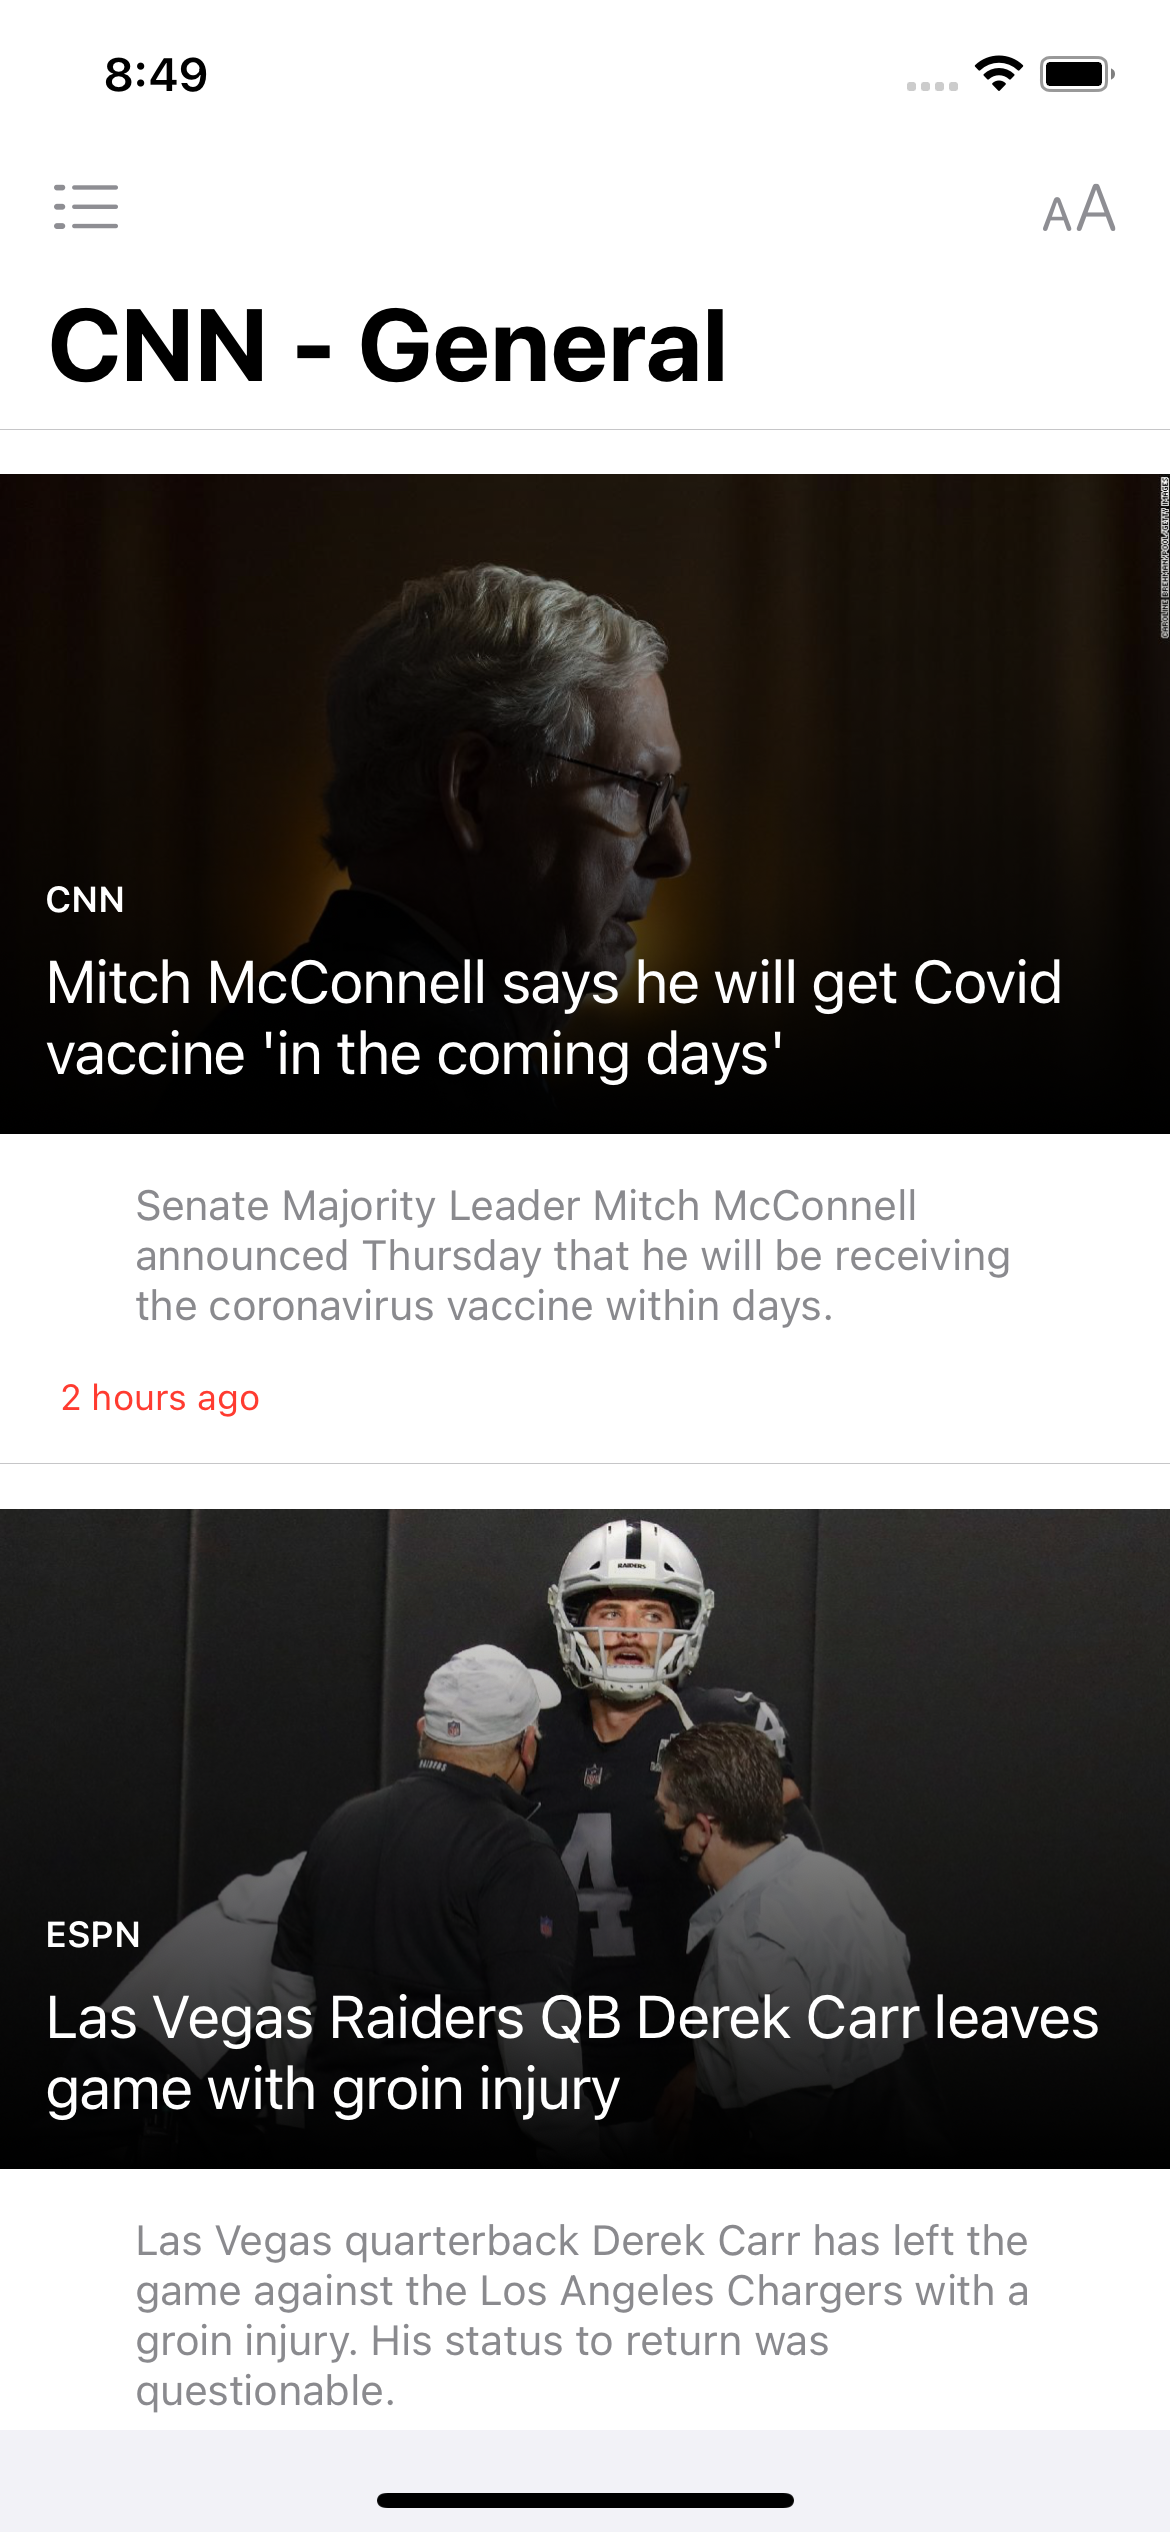
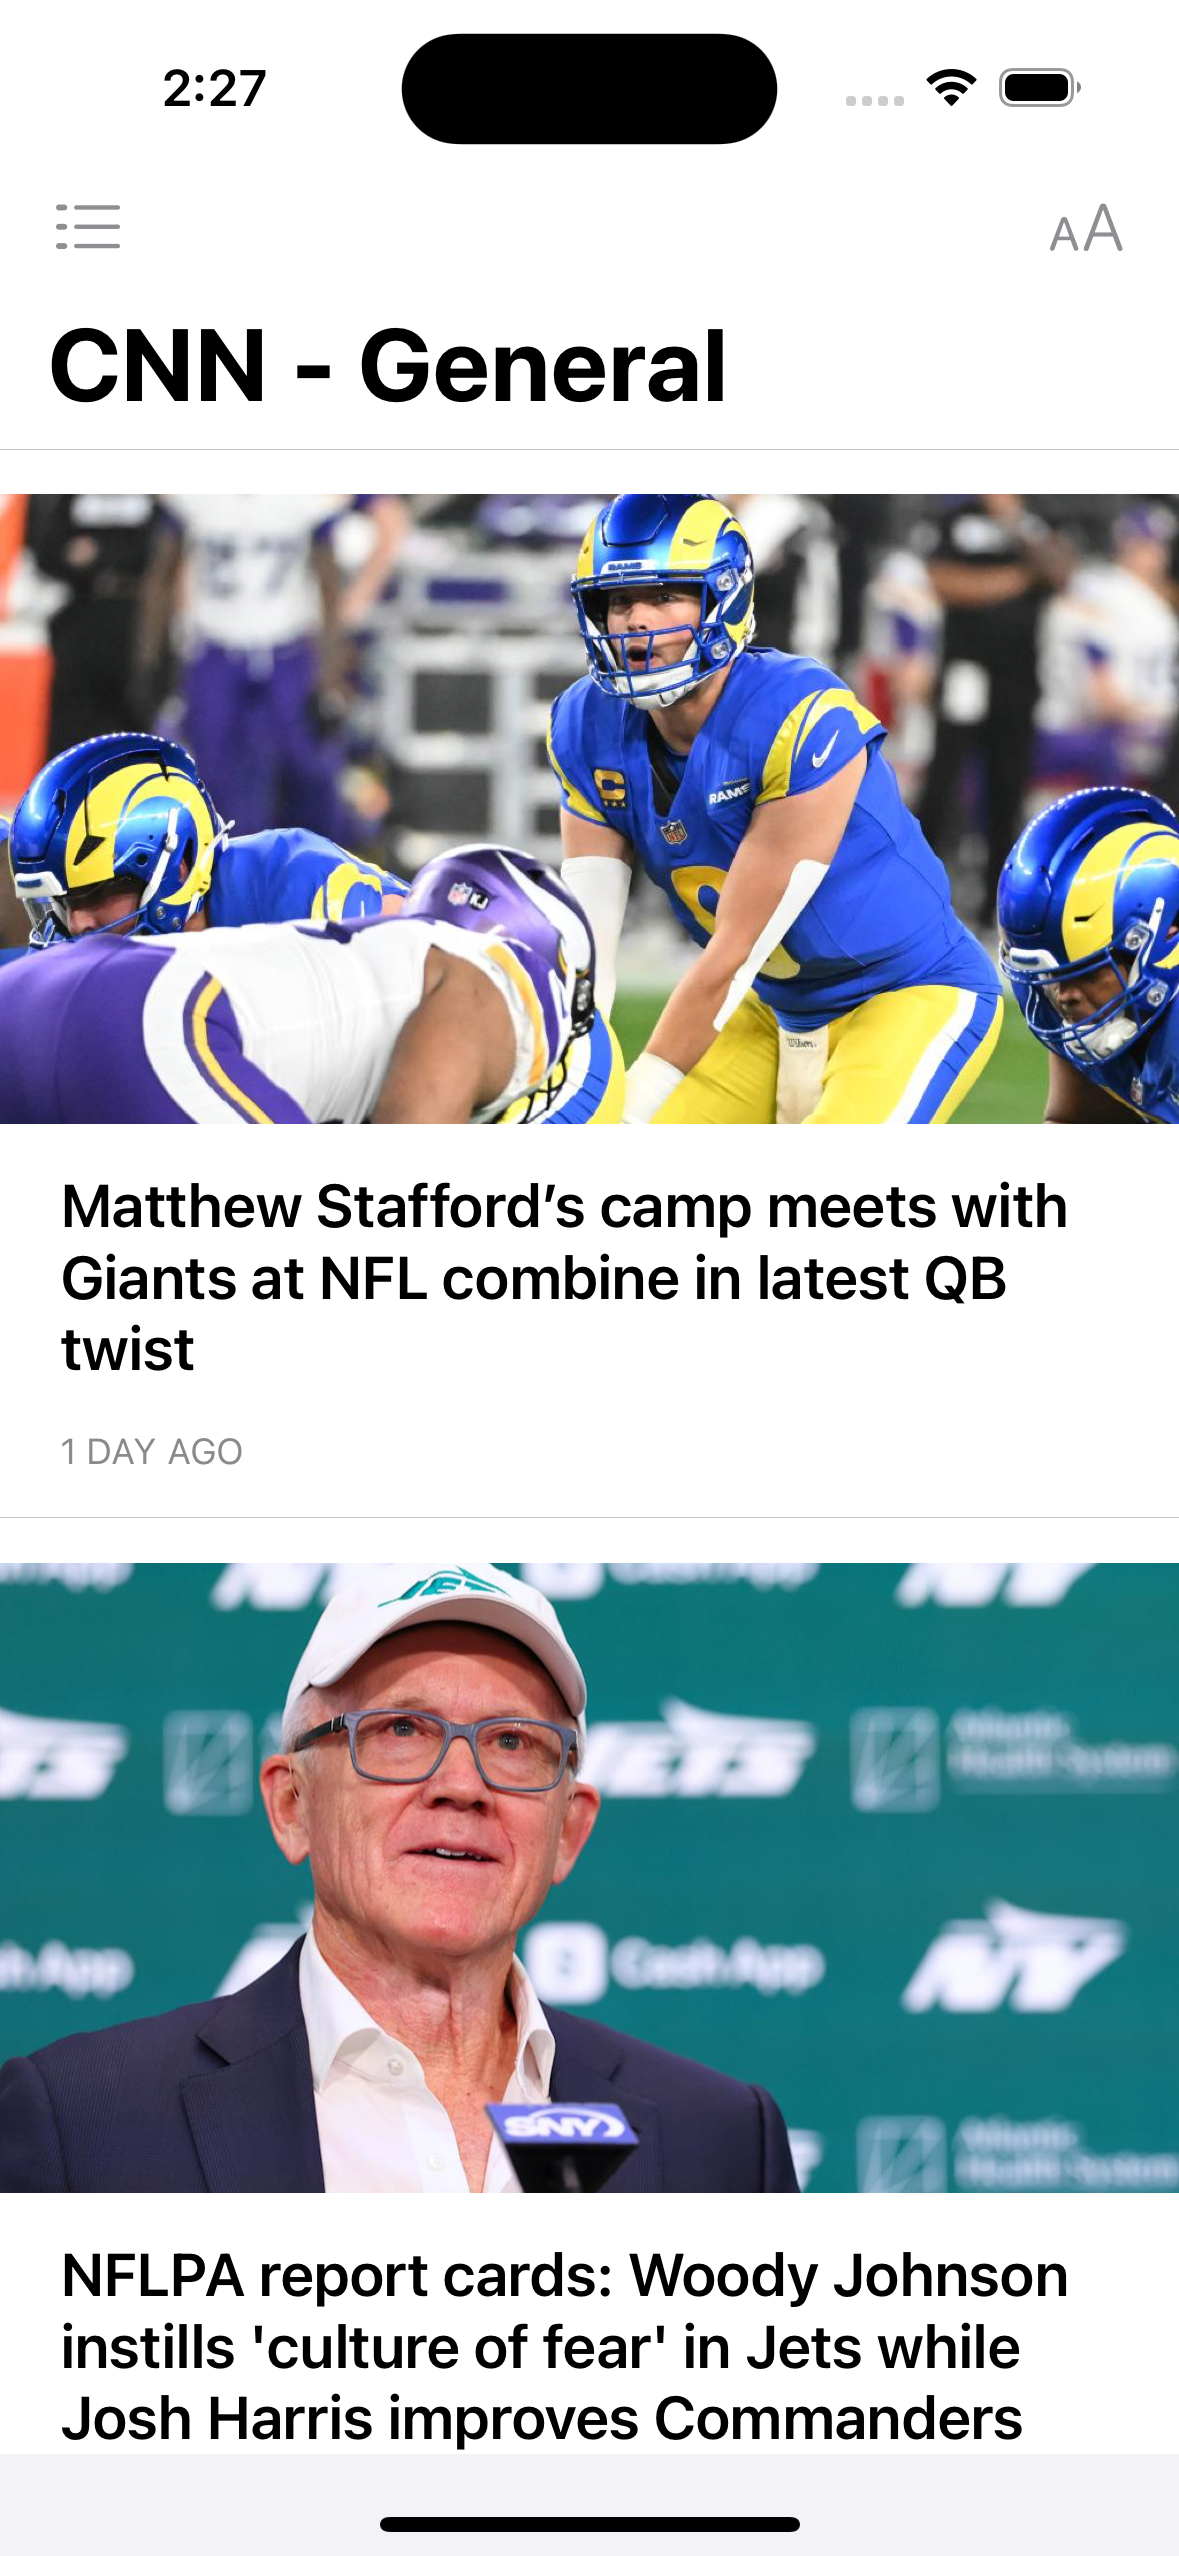
Update CNN

diff --git a/Xcode/TheNews/Views/CNN/CNNCell.swift b/Xcode/TheNews/Views/CNN/CNNCell.swift
@@ -11,23 +11,19 @@ class CNNCell: NewsCell {
     override func config() {
         super.config()
 
-        title.font = .systemFont(ofSize: 20)
-        title.textColor = .white
-
-        summary.font = .systemFont(ofSize: 14)
-        summary.textColor = .secondaryLabel
+        summary.font = .boldSystemFont(ofSize: 20)
 
         source.textColor = .white
         source.font = UIFont.boldSystemFont(ofSize: 12)
 
-        ago.textColor = .systemRed
+        ago.textColor = .secondaryLabel
         ago.font = .preferredFont(forTextStyle: .caption1)
 
         [articleImageView, summary, ago].forEach { item in
             contentView.addSubviewForAutoLayout(item)
         }
 
-        let imageHeight: CGFloat = 220
+        let imageHeight: CGFloat = 210
         let inset: CGFloat = 15
         NSLayoutConstraint.activate([
             articleImageView.topAnchor.constraint(equalTo: contentView.topAnchor, constant: inset),
@@ -36,38 +32,21 @@ class CNNCell: NewsCell {
             articleImageView.heightAnchor.constraint(equalToConstant: imageHeight),
 
             summary.topAnchor.constraint(equalTo: articleImageView.bottomAnchor, constant: inset),
-            summary.leadingAnchor.constraint(equalTo: contentView.readableContentGuide.leadingAnchor, constant: inset + 10),
-            contentView.readableContentGuide.trailingAnchor.constraint(equalTo: summary.trailingAnchor, constant: inset + 10),
+            summary.leadingAnchor.constraint(equalTo: contentView.readableContentGuide.leadingAnchor ),
+            contentView.readableContentGuide.trailingAnchor.constraint(equalTo: summary.trailingAnchor ),
 
             ago.topAnchor.constraint(equalTo: summary.bottomAnchor, constant: inset),
             ago.leadingAnchor.constraint(equalTo: contentView.readableContentGuide.leadingAnchor),
 
             contentView.bottomAnchor.constraint(equalTo: ago.bottomAnchor, constant: inset)
         ])
-
-        [source, title].forEach { item in
-            articleImageView.addSubviewForAutoLayout(item)
-        }
-
-        NSLayoutConstraint.activate([
-            title.leadingAnchor.constraint(equalTo: articleImageView.leadingAnchor, constant: inset),
-            articleImageView.trailingAnchor.constraint(equalTo: title.trailingAnchor, constant: inset),
-            articleImageView.bottomAnchor.constraint(equalTo: title.bottomAnchor, constant: inset),
-
-            source.leadingAnchor.constraint(equalTo: articleImageView.leadingAnchor, constant: inset),
-            title.topAnchor.constraint(equalTo: source.bottomAnchor, constant: 8)
-        ])
     }
 
     func load(article: Article, downloader: ImageDownloader) {
-        title.text = article.titleDisplay
-        summary.text = article.description
+        summary.text = article.titleDisplay
         source.text = article.source?.name?.uppercased()
-        ago.text = article.ago
-
-        load(urlString: article.urlToImage, downloader: downloader) { [weak self] in
-            self?.articleImageView.addGradient(count: 2, index: 0)
-        }
+        ago.text = article.ago?.uppercased()
+        load(urlString: article.urlToImage, downloader: downloader)
     }
 
 }
